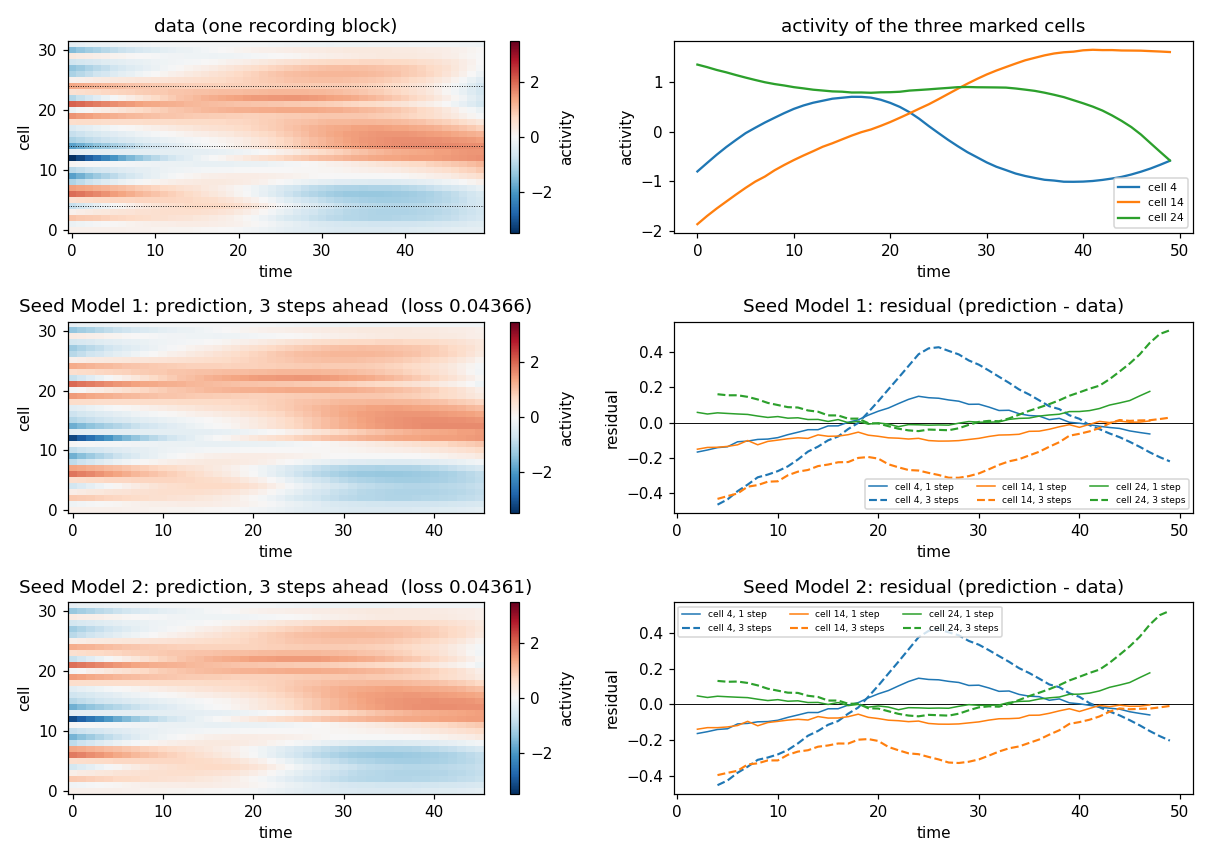
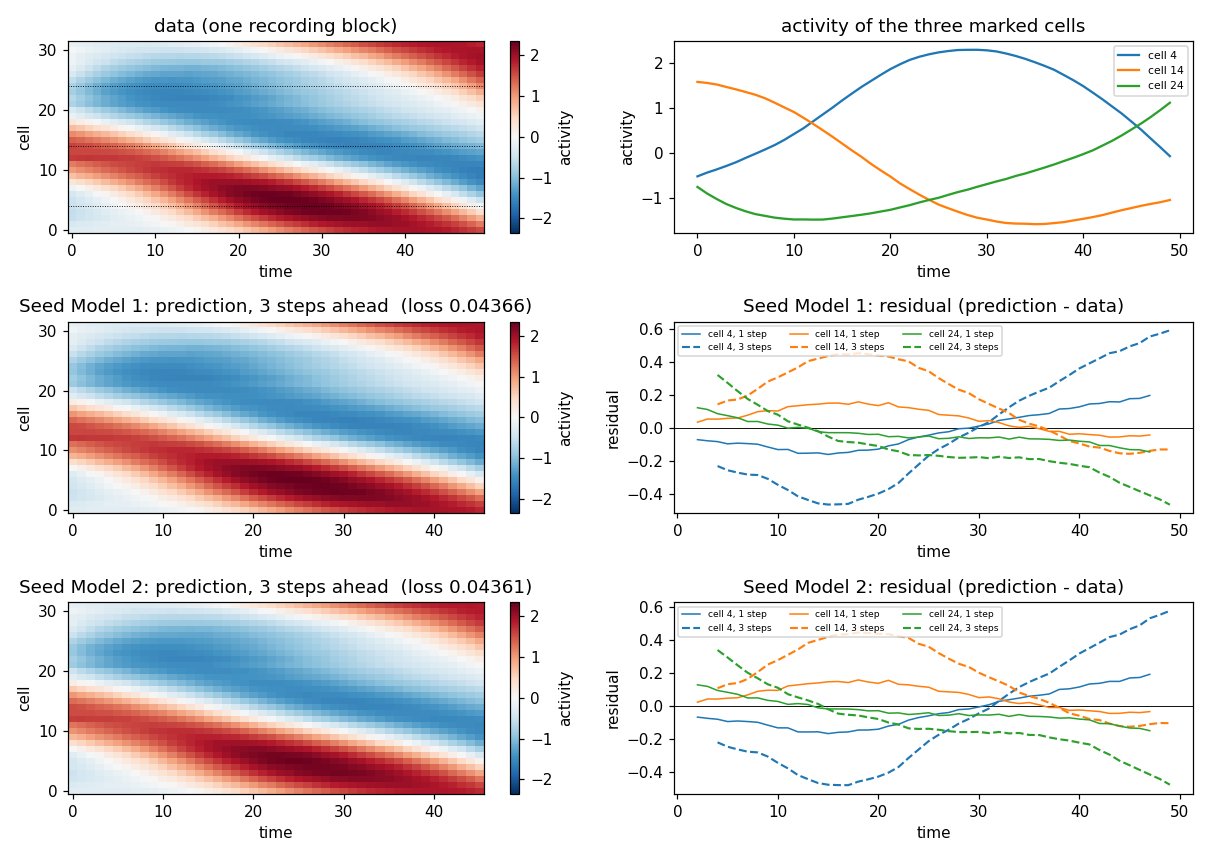
Journal: record how the cross-validation works; fix check harness split
The integration harness passed X_disc[0] (train) to plot_fn, but run.py passes
X_discover[1] (test). A diagnostic harness that disagrees with the pipeline it
checks is worse than none, so it now mirrors run.py: test blocks, train-fitted
params.

Also notes, as out of scope for now, that evolution selects on the discover-test
loss while train and test blocks are adjacent in time on the same trajectory --
so the selection signal is the weaker of the two available, and the strong one
(held-out recordings) only arrives at the final ranking.

diff --git a/journal/2026-07-13_check_scoring_integration.py b/journal/2026-07-13_check_scoring_integration.py
@@ -58,10 +58,14 @@ def main():
 
     # plot_fn imports the project's evaluate.py via __file__, so it only loads if
     # task_spec binds the source path into the namespace.
+    # run.py passes X_discover[1] -- the *test* blocks -- with params fitted on train,
+    # so the LLM is shown generalisation error, not training fit. Mirror that here.
     assert spec.plot_fn is not None, "plot_fn failed to load"
     out = "journal/2026-07-13_synthetic_data_v2_feedback.png"
-    spec.plot_fn(X_disc[0], [population[i] for i in range(len(population))], save_path=out)
-    print(f"plot_fn rendered {out}")
+    spec.plot_fn(
+        X_disc[1], [population[i] for i in range(len(population))], save_path=out
+    )
+    print(f"plot_fn rendered {out}  (test blocks, train-fitted params)")
 
     print("\nscoring integration OK")
 

diff --git a/journal/2026-07-13.md b/journal/2026-07-13.md
@@ -147,9 +147,38 @@ axes and colours. Not yet decided.
 Coupling risk: `ROLLOUT_STEPS = 3` lives in `evaluate.py`, but "three steps" is written out in
 prose in `prompts.yaml`. Changing one silently desyncs the other.
 
-Caveat to remember: train and test blocks are adjacent in time on the *same* trajectory, so the
-within-sample test loss is a weak generalisation check. The real check is the discover/validate
-split over held-out recordings.
+### How the cross-validation actually works (for reference)
+
+Two nested splits, no masking anywhere — the block axis makes the split structural, which is why
+we did *not* take the notion doc's approach of NaN-masking test timepoints in a flat time axis.
+
+- Recordings → discover (8) / validate (8). Validate is untouched until the final ranking.
+- Blocks within a recording → train (0, 2, 4) / test (1, 3), *alternating*, so both splits hold the
+  transient and the steady state. A first-60%/last-40% cut would put the whole transient in train.
+
+Leak-freeness is by construction: rollout starts run `arange(L-1, block_len - H)` and every window
+is a `dynamic_slice` *within one block*, so no window can reach across a block boundary.
+
+Loss path: `_optimize` fits params on the **train** blocks; `_eval_loss` scores them on the
+**test** blocks (+ param penalty) — that test number is `discover.final`, what evolution selects
+on. At validation, params are re-fitted from scratch on `val_train` and scored on `val_test`, so
+only the *functional form* crosses the validate boundary. Correct, given that the parameters are
+not identifiable from this data anyway.
+
+Image feedback shows `X_discover[1]` (`run.py:259`) — the **test** blocks, predicted with
+**train**-fitted params. So the LLM sees generalisation error, not training fit. It is a keyhole
+though: one 50-step block of one recording.
+
+### NOTE / out of scope for now — the selection signal is the weaker of the two
+
+Train and test blocks are adjacent in time on the *same* trajectory: test block 1 starts exactly
+where train block 0 ended, so its initial state is essentially determined by data the params were
+fitted on. That makes the within-recording test loss a weak generalisation check — it mostly
+catches parameter overfitting. The strong check is discover/validate across held-out recordings,
+but evolution selects on the discover-*test* loss, so **we are selecting on the weaker signal and
+only seeing the strong one at the end, as a ranking**. This is inherent to EDGAR's train/test
+contract, not something this project introduced. Parked deliberately; revisit only if the runs
+show programs that win on discover-test and collapse on validate.
 
 ## Complexity penalty — `2026-07-13_calibrate_penalty.py`
 
